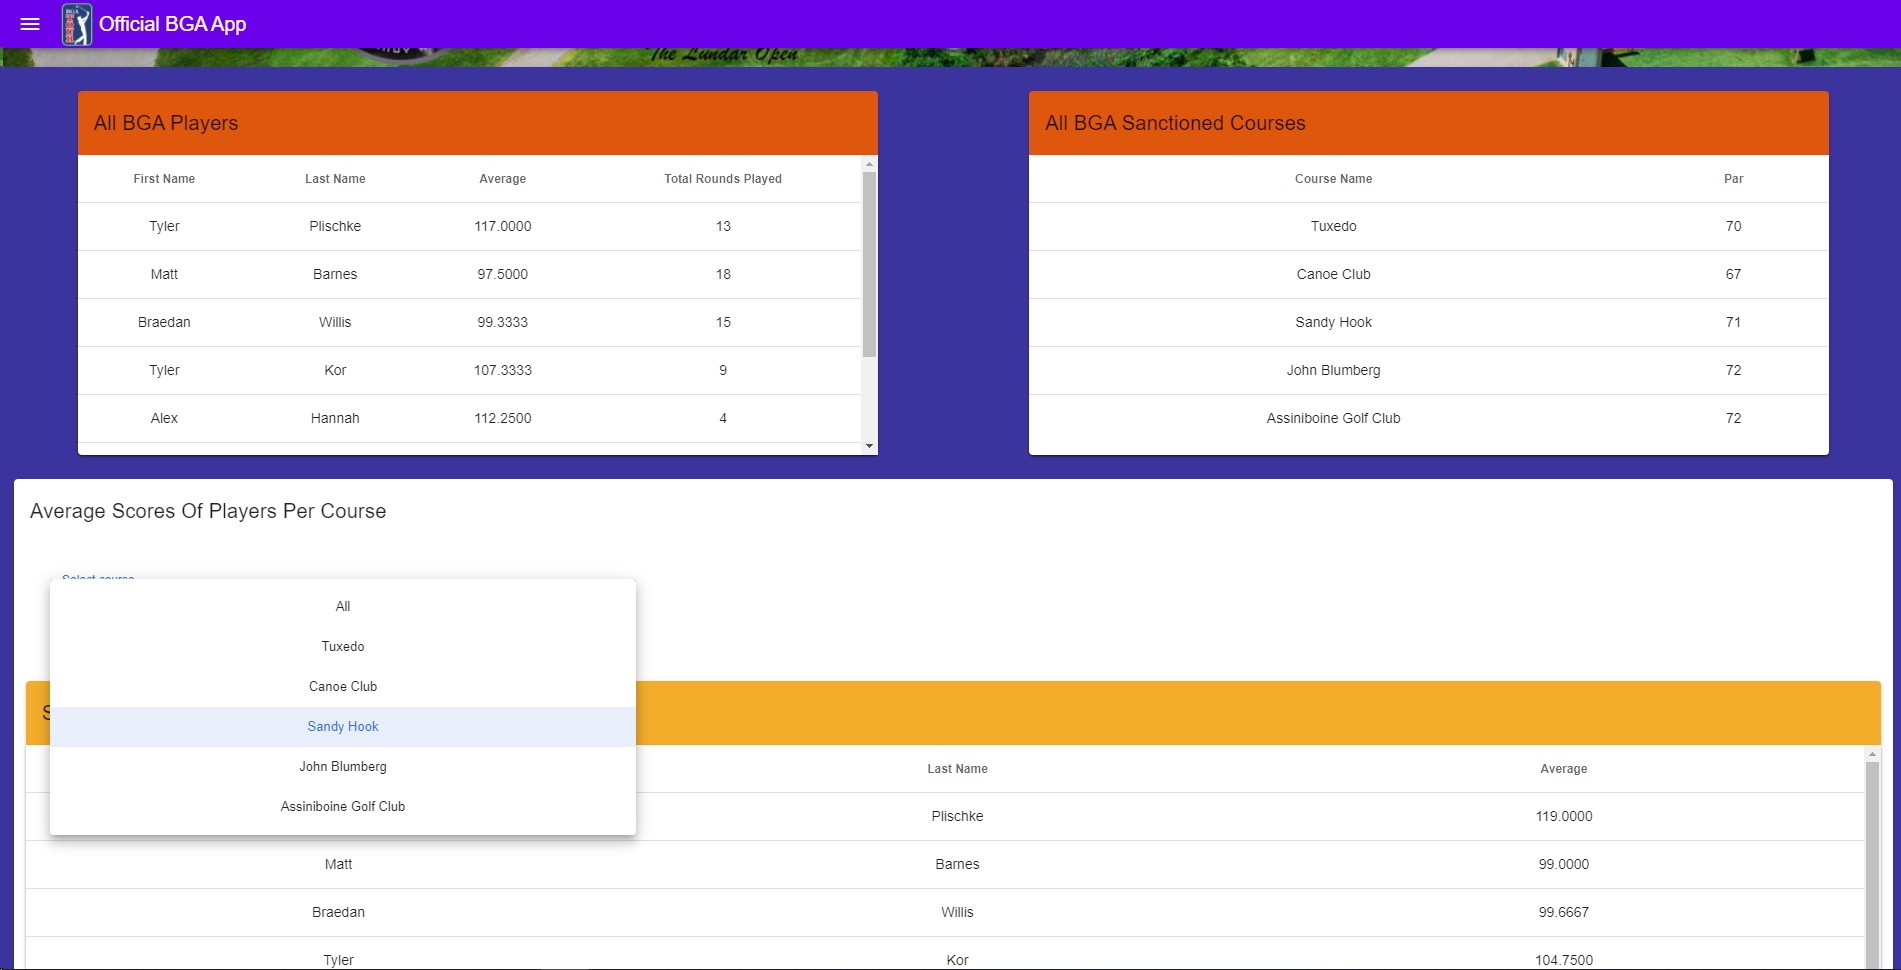
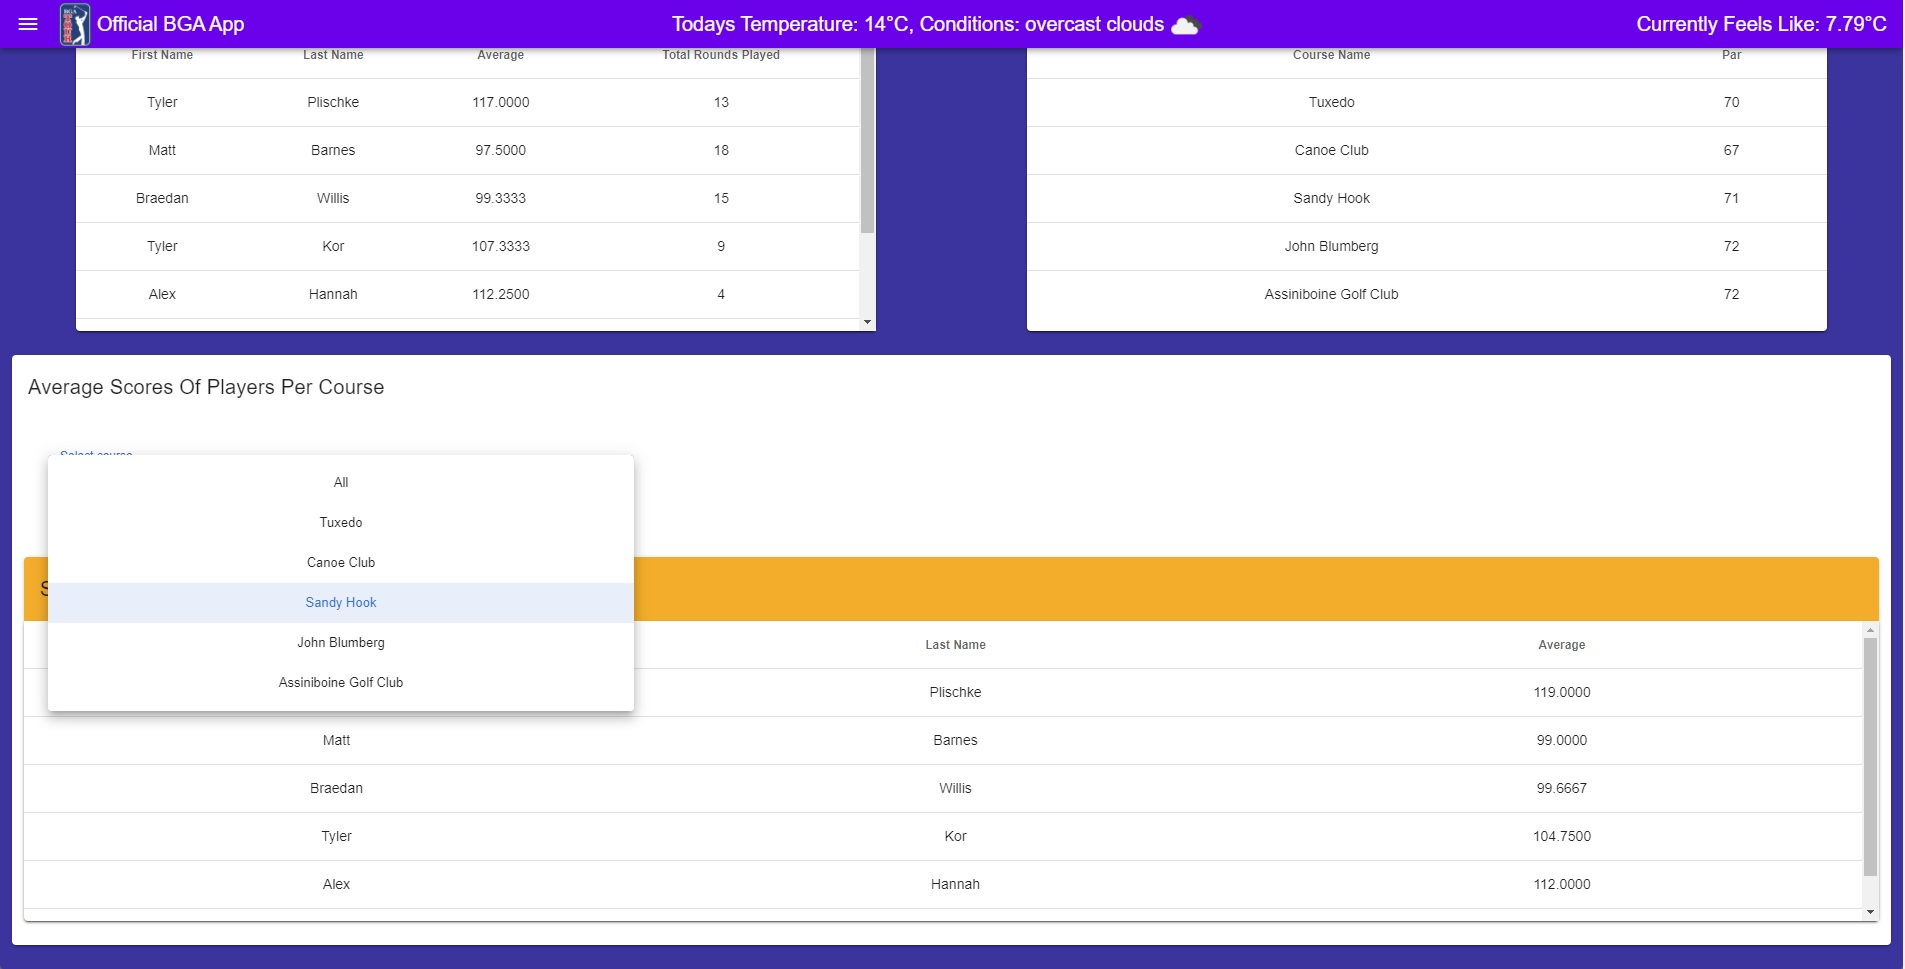
integrated a weather api into the navbar

diff --git a/bga-app/src/components/navbar.vue b/bga-app/src/components/navbar.vue
@@ -8,6 +8,11 @@
     <v-app-bar-nav-icon @click="drawer = !drawer"></v-app-bar-nav-icon>
     <v-img src="../../public/favicon.png" max-width="45" max-height="45"/>
     <v-toolbar-title>Official BGA App</v-toolbar-title>
+    <v-spacer></v-spacer>
+    <v-toolbar-title v-if="hasData">Todays Temperature: {{this.weatherData.main.temp}}°C, Conditions: {{this.weatherData.weather[0].description}}</v-toolbar-title>
+    <v-img :src='this.weatherIcon' max-width="45" max-height="45"/>
+    <v-spacer></v-spacer>
+    <v-toolbar-title v-if="hasData">Currently Feels Like: {{this.weatherData.main.feels_like}}°C</v-toolbar-title>
     </v-app-bar>
     <v-navigation-drawer app v-model="drawer" fixed temporary color="blue-grey lighten-4">
       <v-list-item-content class="justify-center">Menu</v-list-item-content>
@@ -23,17 +28,55 @@
 </div>
 </template>
 <script>
+import axios from 'axios'
+import CONSTANTS from '../constants'
 export default {
     name:'navbar',
+    components:{
+    },
     data(){
     return{
+      lon: null,
+      lat: null,
+      weatherData: null,
+      hasLocation: false,
+      hasData: false,
       drawer:false,
+      weatherIcon: null,
       links: [
         {title: 'Home', route:'/'},
         {title: 'Submit Score', route:'/scorecard' }
       ],
       selectedPage: 'Home'
-    }
+      }
+    },
+    created(){
+      this.getLocation();
+    },
+    methods:{
+      getLocation(){
+          if(navigator.geolocation){
+            navigator.geolocation.getCurrentPosition(pos =>{
+              this.lon = pos.coords.longitude;
+              this.lat = pos.coords.latitude;
+              this.hasLocation = true;
+              this.fetchWeather();
+              });
+            }
+        },
+      fetchWeather(){
+        if(this.hasLocation){
+          axios.get("http://api.openweathermap.org/data/2.5/weather?lat="+this.lat+"&lon="+this.lon+"&units=metric"+"&appid="+CONSTANTS.APIKEY)
+            .then((response) => {
+              this.weatherData = response.data;
+              this.hasData = true;
+              this.weatherIcon =  'http://openweathermap.org/img/wn/'+this.weatherData.weather[0].icon+'@2x.png'
+            })
+            .catch((error) => {
+             console.log(error);
+            });
+        }
+        },
     }
 }
 </script>

diff --git a/bga-app/src/components/weather.vue b/bga-app/src/components/weather.vue
@@ -1,0 +1,43 @@
+<template> 
+<div>
+    <p>Currently Feels Like: {{}}</p>
+</div>
+</template>
+<script>
+import axios from 'axios'
+import CONSTANTS from '../constants'
+export default {
+    name: 'weather',
+    data(){
+        return{
+            lon: null,
+            lat: null,
+            weatherData: null,
+        }
+    },
+    created(){
+        //this.getLocation();
+    },
+    methods:{
+        fetchWeather(){
+            axios.get("http://api.openweathermap.org/data/2.5/weather?lat="+this.lat+"&lon="+this.lon+"&units=metric"+"&appid="+CONSTANTS.APIKEY)
+            .then((response) => {
+                this.weatherData = response.data
+                console.log(this.weatherData)
+            })
+            .catch((error) => {
+                console.log(error)
+            });
+        },
+        getLocation(){
+            if(navigator.geolocation){
+                navigator.geolocation.getCurrentPosition(pos =>{
+                    this.lon = pos.coords.longitude
+                    this.lat = pos.coords.latitude
+                    this.fetchWeather();
+                });
+            }
+        }
+    }
+}
+</script>

diff --git a/bga-app/src/constants.js b/bga-app/src/constants.js
@@ -1,5 +1,7 @@
 const BACK_END_CONNECTION_STRING = "http://localhost:5000/api/"
+const APIKEY = "3b5a3eb5b564d3316c69dee37ff49be2"
 
 export default{
-    BACK_END_CONNECTION_STRING
+    BACK_END_CONNECTION_STRING,
+    APIKEY
 }

diff --git a/bga-app/src/views/mainPage.vue b/bga-app/src/views/mainPage.vue
@@ -53,7 +53,7 @@
         components:{
             playerTable,
             courseTable,
-            averageScoreTable
+            averageScoreTable,
         },
         data(){
             return{
